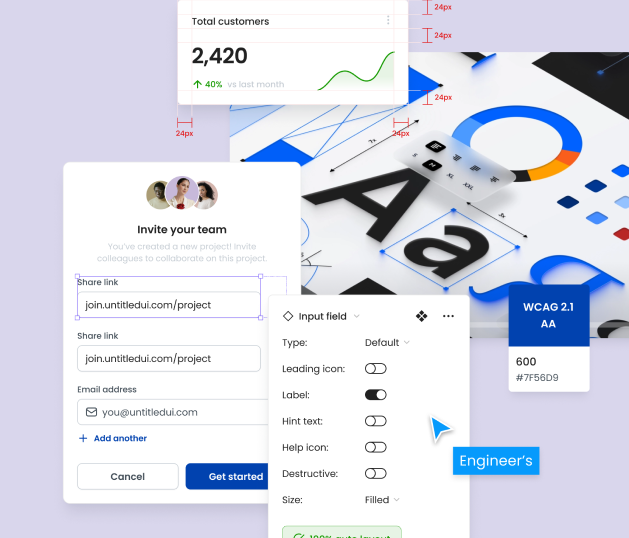
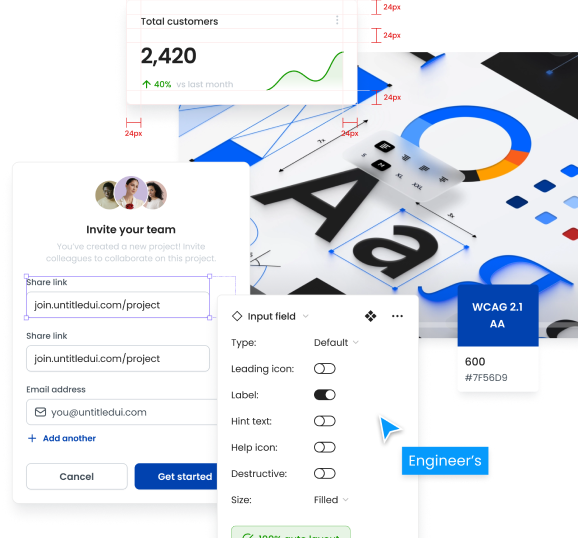
feat: update ui home page

diff --git a/apps/docs-v2/components/home/ReactCompass/index.tsx b/apps/docs-v2/components/home/ReactCompass/index.tsx
@@ -1,21 +1,48 @@
-import {Box, Typography} from '@comfortdelgro/react-compass'
+import {Box, Divider, Grid, Typography} from '@comfortdelgro/react-compass'
 import Container from 'components/layouts/Container'
-import GradientText from '../../typography/GradientText'
+import Item from '../Introduction/item'
 import CoreShowcase from './CoreShowcase'
 
 function ReactCompass() {
   return (
-    <Box css={{background: 'white', padding: '4rem 0'}}>
+    <Box css={{padding: '4rem 0', background: '#ECE2EF'}}>
       <Container>
         <Box>
-          <Typography.Header variant='header1' css={{fontWeight: 'bold'}}>
-            <GradientText>React Compass</GradientText> Library
-          </Typography.Header>
-          <Typography.Body variant='body2'>
-            Foundational components for shipping features faster.
+          <Typography.Header>Usage</Typography.Header>
+          <Typography.Body variant='body2' css={{padding: '$5 0 $3 0'}}>
+            There are three parts of the package: CSS, Javascript, and Icon or
+            Image resource. We are fetching icon and images from cdn by default.
           </Typography.Body>
         </Box>
-        <CoreShowcase />
+        <Box css={{paddingTop: '$4'}}>
+          <Grid spacing='sm' alignItems='center' style={{height: '100%'}}>
+            <Grid.Item xs={12} sm={12} md={6} lg={6} xl={6}>
+              <Item
+                title='Latest updates'
+                description='Check out our latest updates'
+                textLink='Figma link'
+                urlLink='/'
+                image='/static/images/home/lastest-updated.png'
+              />
+            </Grid.Item>
+            <Grid.Item xs={12} sm={12} md={6} lg={6} xl={6}>
+              <Item
+                title='Github'
+                description='Check out our github repo.'
+                textLink='Get started'
+                urlLink='/'
+                image='/static/images/home/github.png'
+              />
+            </Grid.Item>
+          </Grid>
+        </Box>
+        <Divider css={{padding: '$4'}} />
+        <Box css={{paddingTop: '$8'}}>
+          <Typography.Header css={{paddingBottom: '$3'}}>
+            Demo
+          </Typography.Header>
+          <CoreShowcase />
+        </Box>
       </Container>
     </Box>
   )

diff --git a/apps/docs-v2/components/layouts/AppFooter.tsx b/apps/docs-v2/components/layouts/AppFooter.tsx
@@ -1,7 +1,4 @@
 import Compass from '@comfortdelgro/compass-icons/react/colorful/compass'
-import Facebook from '@comfortdelgro/compass-icons/react/colorful/facebook'
-import Twitter from '@comfortdelgro/compass-icons/react/colorful/twitter'
-import Youtube from '@comfortdelgro/compass-icons/react/colorful/youtube'
 import {Box, Typography} from '@comfortdelgro/react-compass'
 import Link from 'next/link'
 import Container from './Container'
@@ -12,34 +9,26 @@ interface AppFooterProps {
 
 export default function AppFooter(props: AppFooterProps) {
   return (
-    <Box css={{padding: '$8 0'}}>
-      <Container>
+    <Box css={{padding: '$8 0', background: '#D9D2E9'}}>
+      <Container css={{display: 'flex', justifyContent: 'space-between'}}>
         <Box
           css={{
             display: 'flex',
           }}
         >
           <Link href='/'>
-            <Compass width={40} height={40} />
+            <Compass width={25} height={25} />
           </Link>
-          <Typography.Header css={{marginLeft: 5}} variant='header3'>
-            React Compass
-          </Typography.Header>
-          <Box css={{display: 'flex'}}>
-            <Box css={{padding: '0 $1'}}>
-              <Facebook />
-            </Box>
-            <Box css={{padding: '0 $1'}}>
-              <Youtube />
-            </Box>
-            <Box css={{padding: '0 $1'}}>
-              <Twitter />
-            </Box>
-          </Box>
+          <Typography.Body variant='body2' css={{marginLeft: 5}}>
+            © 2023 CDG Zig. All rights reserved.
+          </Typography.Body>
         </Box>
-        <Typography.Label variant='label2'>
-          Copyright © {new Date().getFullYear()}
-        </Typography.Label>
+        <Box css={{display: 'flex'}}>
+          <Typography.Body variant='body2' css={{marginRight: 10}}>
+            Privacy
+          </Typography.Body>
+          <Typography.Body variant='body2'>Terms&Conditions</Typography.Body>
+        </Box>
       </Container>
     </Box>
   )

diff --git a/apps/docs-v2/components/home/Introduction/index.tsx b/apps/docs-v2/components/home/Introduction/index.tsx
@@ -1,0 +1,43 @@
+import {Box, Grid, Typography} from '@comfortdelgro/react-compass'
+import Container from 'components/layouts/Container'
+import Item from './item'
+
+export default function Introduction() {
+  return (
+    <Box css={{background: '#E2DEEB', padding: '$14 0'}}>
+      <Container>
+        <Typography.Header>Introduction</Typography.Header>
+        <Typography.Body variant='body2' css={{padding: '$5 0 $3 0'}}>
+          This is guideline page for ComfortDelGro's Workbench Design System
+          library. Which a set of components that created using web component
+          and can be used to implement user experiences consistent with
+          ComfortDelGro's design principles. These components can work without
+          any other library like jQuery, Angular, VueJS, React and can run on
+          most of modern browsers. Refer Workbench Design System
+        </Typography.Body>
+        <Box css={{paddingTop: '$4'}}>
+          <Grid spacing='sm' alignItems='center' style={{height: '100%'}}>
+            <Grid.Item xs={12} sm={12} md={6} lg={6} xl={6}>
+              <Item
+                title='Design'
+                description='Check out our figma Compass design system'
+                textLink='Figma link'
+                urlLink='/'
+                image='/static/images/home/design.png'
+              />
+            </Grid.Item>
+            <Grid.Item xs={12} sm={12} md={6} lg={6} xl={6}>
+              <Item
+                title='Develop'
+                description='Find installation guide and tooling tips'
+                textLink='Get started'
+                urlLink='/'
+                image='/static/images/home/develop.png'
+              />
+            </Grid.Item>
+          </Grid>
+        </Box>
+      </Container>
+    </Box>
+  )
+}

diff --git a/apps/docs-v2/components/home/Introduction/item.tsx b/apps/docs-v2/components/home/Introduction/item.tsx
@@ -1,0 +1,59 @@
+import {Box, Typography} from '@comfortdelgro/react-compass'
+import Image from 'next/image'
+import Link from 'next/link'
+
+type Props = {
+  title: string
+  description: string
+  image: string
+  textLink: string
+  urlLink: string
+}
+
+export default function Item(props: Props) {
+  const {title, description, image, textLink, urlLink = '/'} = props
+  return (
+    <Box
+      css={{
+        height: 131,
+        width: '100%',
+        display: 'flex',
+        borderRadius: 12,
+        background: '$white',
+        boxShadow:
+          '0px 1.6px 3.6px 0px rgba(0, 0, 0, 0.13), 0px 0.3px 0.9px 0px rgba(0, 0, 0, 0.10)',
+      }}
+    >
+      <Image
+        src={image}
+        alt='design'
+        width={131}
+        height={131}
+        style={{
+          borderTopLeftRadius: 8,
+          borderBottomLeftRadius: 8,
+        }}
+      />
+      <Box
+        css={{
+          padding: '$4 $3',
+          display: 'flex',
+          alignItems: 'flex-start',
+          flexDirection: 'column',
+          justifyContent: 'space-around',
+        }}
+      >
+        <Typography.Header variant='header3'>{title}</Typography.Header>
+        <Typography.Body variant='body2'>{description}</Typography.Body>
+        <Link href={urlLink} style={{textDecoration: 'none'}}>
+          <Typography.Body
+            variant='body2'
+            css={{color: '$cdgBlue', fontWeight: 'bold'}}
+          >
+            {textLink}
+          </Typography.Body>
+        </Link>
+      </Box>
+    </Box>
+  )
+}

diff --git a/apps/docs-v2/components/home/Hero.tsx b/apps/docs-v2/components/home/Hero.tsx
@@ -1,5 +1,6 @@
 import {Box, Typography} from '@comfortdelgro/react-compass'
 import Container from 'components/layouts/Container'
+import GradientText from 'components/typography/GradientText'
 import Image from 'next/image'
 import GetStartedButtons from './GetStartedButtons'
 
@@ -27,8 +28,8 @@ export default function Hero() {
             },
           }}
         >
-          <Typography.Header variant='header1'>
-            Ready to use Design components
+          <Typography.Header variant='header0'>
+            Ready to use <GradientText>Design components</GradientText>
           </Typography.Header>
           <Box css={{padding: '$6 0'}}>
             <Typography.Body variant='body2'>
@@ -55,7 +56,7 @@ export default function Hero() {
           <Image
             src='/static/images/introduction.png'
             alt='banner'
-            width={629}
+            width={578}
             height={538}
           />
         </Box>

diff --git a/apps/docs-v2/pages/index.tsx b/apps/docs-v2/pages/index.tsx
@@ -2,6 +2,7 @@ import {Divider} from '@comfortdelgro/react-compass'
 import Head from 'components/common/Head'
 import MarkdownLinks from 'components/common/MarkdownLinks'
 import Banner from 'components/home/Banner'
+import Introduction from 'components/home/Introduction'
 import Hero from '../components/home/Hero'
 import ReactCompass from '../components/home/ReactCompass'
 import AppFooter from '../components/layouts/AppFooter'
@@ -19,6 +20,7 @@ export default function Home() {
         <MarkdownLinks />
         <Banner />
         <Hero />
+        <Introduction />
         <ReactCompass />
         <Divider />
       </main>

diff --git a/apps/docs-v2/components/home/ReactCompass/ShowcaseContainer.tsx b/apps/docs-v2/components/home/ReactCompass/ShowcaseContainer.tsx
@@ -25,8 +25,7 @@ export default function ShowcaseContainer({
             justifyContent: 'center',
             alignItems: 'center',
             borderRadius: 20,
-            backgroundColor: '$gray40',
-            borderColor: '$gray50',
+            backgroundColor: '#E2DEEB',
             borderBottomLeftRadius: 0,
             borderBottomRightRadius: 0,
           }}

diff --git a/apps/docs-v2/components/home/Banner.tsx b/apps/docs-v2/components/home/Banner.tsx
@@ -27,7 +27,6 @@ const Banner = () => {
             top: 'calc(50% - 119px)',
             width: '70%',
             left: '15%',
-            background: 'red',
           },
           '@media screen and (max-width: 992px)': {
             padding: '$4 $4',
